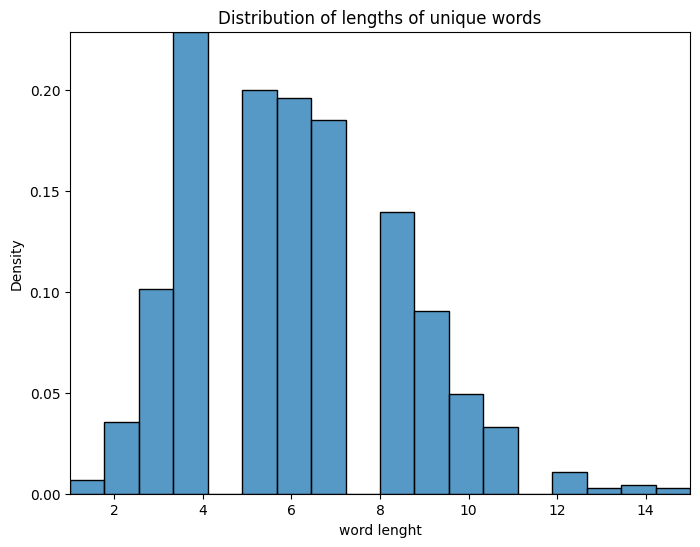
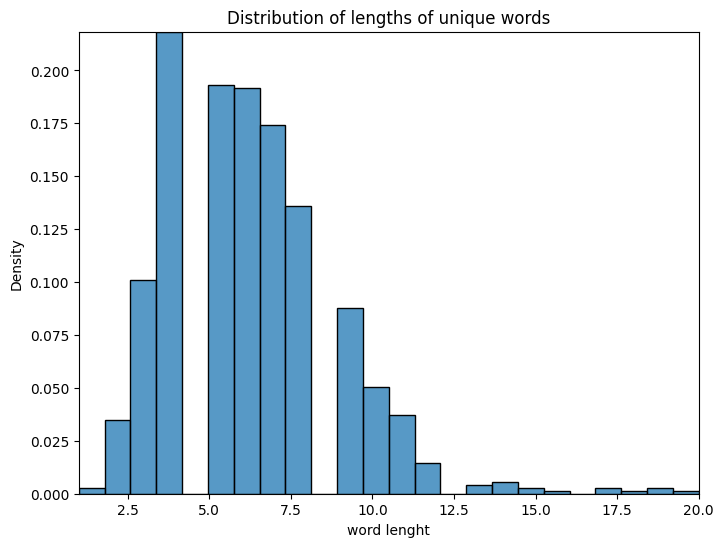
added "long-words"

diff --git a/python_homework/reg_exp_practice/regexp_practice.py b/python_homework/reg_exp_practice/regexp_practice.py
@@ -72,9 +72,10 @@ def tale_parser(url):
     write_matches(file_output_ex, ex_matches)
 
     # Plot a histogram of the distribution of the lengths of unique words (case-insensitive, length from 1) in the text.
-    words_regexp = re.compile(r'\b[A-Za-z_\']+\b|(?<=\D)\d+\.{0,1}\d*(?=\D)')
+    words_regexp = re.compile(r'(?<=\b)[\w\']\S*(?=\b)')
     words = read_file_lines(file_tale, words_regexp)
     words = set([word.lower() for word in read_file_lines(file_tale, words_regexp)])
+    print("\n".join(words))
     uniqe_words_plot(words)
 
 
